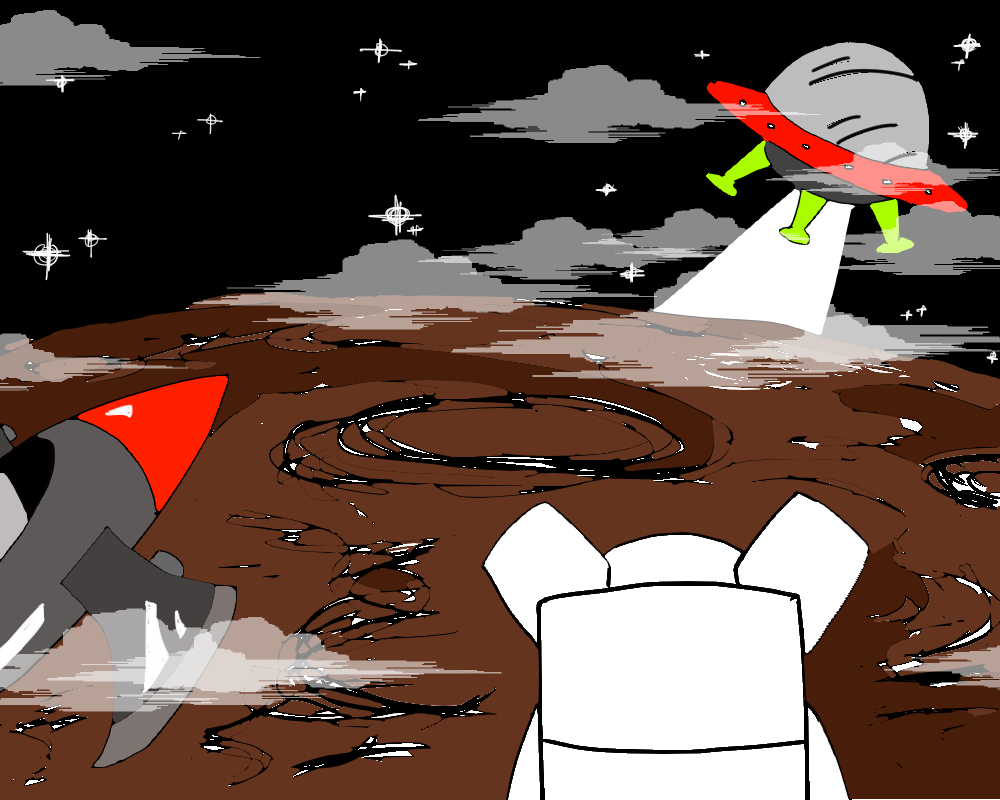
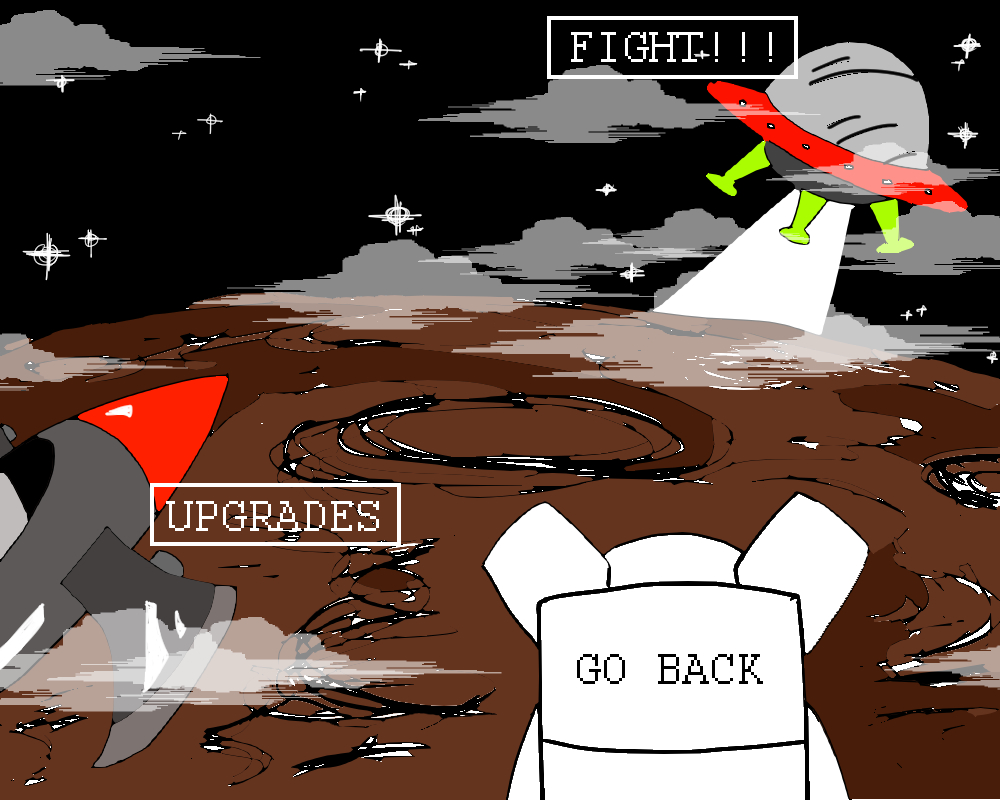
Changes for Pregame Screen
All options now made visible.

diff --git a/core/src/sanoke/livingspace/Assets.java b/core/src/sanoke/livingspace/Assets.java
@@ -32,9 +32,6 @@ public class Assets {
     public static Texture instructionScreenDefault;
     public static Texture instructionScreenOK;
     public static Texture pregameScreenDefault;
-    public static Texture pregameScreenUpgrades;
-    public static Texture pregameScreenPlay;
-    public static Texture pregameScreenQuit;
     
     public static Texture pauseScreenDefault;
     public static Texture pauseScreenResume;
@@ -124,9 +121,6 @@ public class Assets {
         instructionScreenDefault = new Texture(Gdx.files.internal("Instructions.jpg"));
         instructionScreenOK = new Texture(Gdx.files.internal("Instructions_OK.jpg"));
         pregameScreenDefault = new Texture(Gdx.files.internal("PreGame.jpg"));
-        pregameScreenUpgrades = new Texture(Gdx.files.internal("PreGame_Upgrades.jpg"));
-        pregameScreenPlay = new Texture(Gdx.files.internal("PreGame_Play.jpg"));
-        pregameScreenQuit = new Texture(Gdx.files.internal("PreGame_Leave.jpg"));
     }
     
     private static void loadDeathScreens() {

diff --git a/core/src/sanoke/livingspace/PregameScreen.java b/core/src/sanoke/livingspace/PregameScreen.java
@@ -84,22 +84,7 @@ public class PregameScreen implements Screen {
     }
 
     private void processInput() {
-        processMouseOver();
         processClick();
-    }
-    
-    private void processMouseOver() {
-        float xPos = Gdx.input.getX();
-        float yPos = Gdx.input.getY();
-        if (isWithinPlay(xPos, yPos)) {
-            game.batch.draw(Assets.pregameScreenPlay, 0, 0);
-        } else if (isWithinUpgrades(xPos, yPos)) {
-            game.batch.draw(Assets.pregameScreenUpgrades, 0, 0);
-        } else if (isWithinQuit(xPos, yPos)) {
-        	game.batch.draw(Assets.pregameScreenQuit, 0, 0);
-        } else {
-        	game.batch.draw(Assets.pregameScreenDefault, 0, 0);
-        }
     }
     
     private void processClick() {
